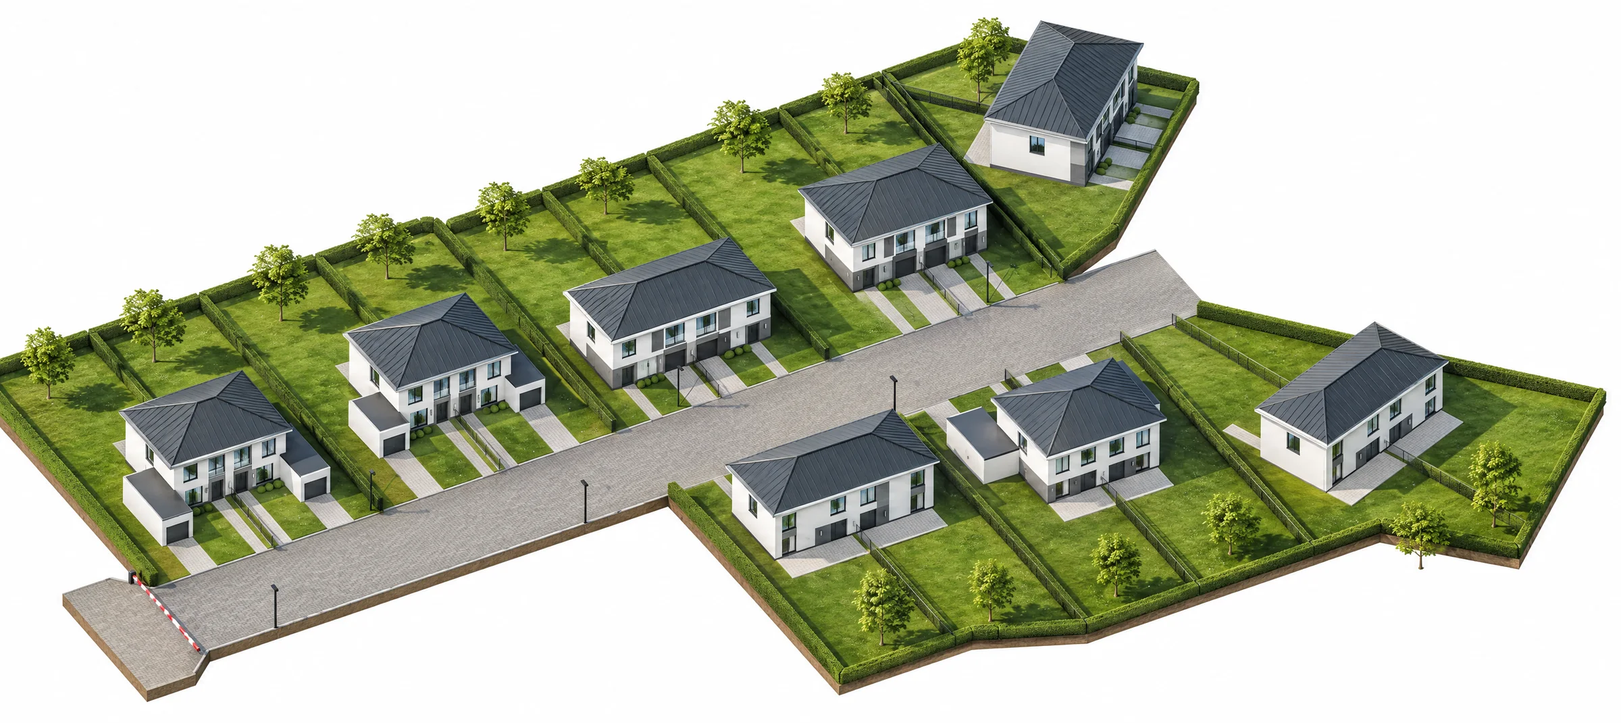
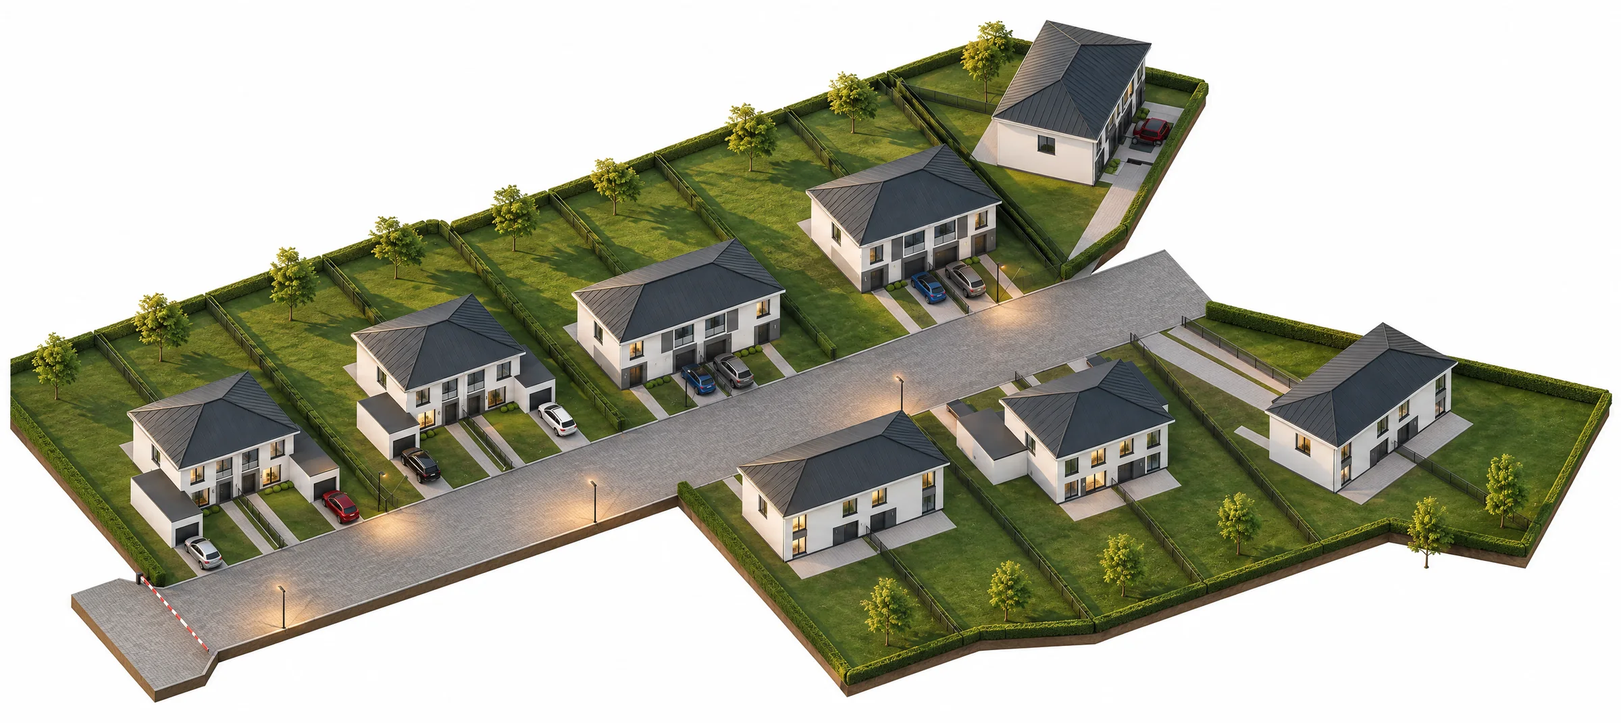
Makieta: auta, świecące latarnie, dojazd do domu 1, widok pionowy na telefon; spacer jako sekcja strony głównej

diff --git a/js/makieta.js b/js/makieta.js
@@ -1,4 +1,5 @@
-// Obrysy połówek bliźniaków na makiecie 3D: kontury z maski ID (Blender, ta sama kamera co render), piksele kadru 3689 x 1645.
-// Model z planu zagospodarowania (makieta-3d/model.py), obrys = to, co faktycznie widać na renderze, z uwzględnieniem zasłonięć.
-window.MAKIETA_WYM = [3689, 1645];
-window.MAKIETA = {"1A1": {"d": "M2305.5 154.5 2243.5 265.5 2243.5 271.5 2254.5 273.5 2258.5 275.5 2258.5 377.5 2412.5 409.5 2431.5 414.5 2445.5 416.5 2450.5 418.5 2469.5 421.5 2472.5 418.5 2477.5 408.5 2480.5 407.5 2488.5 392.5 2490.5 382.5 2502.5 360.5 2508.5 359.5 2510.5 357.5 2528.5 325.5 2529.5 321.5 2529.5 270.5 2526.5 269.5 2526.5 229.5 2538.5 208.5 2538.5 203.5 2422.5 136.5Z", "pin": [2393.0, 213.2]}, "1A1'": {"d": "M2367.5 41.5 2305.5 153.5 2422.5 135.5 2538.5 202.5 2539.5 208.5 2527.5 229.5 2527.5 269.5 2530.5 270.5 2530.5 311.5 2534.5 312.5 2554.5 277.5 2555.5 264.5 2563.5 249.5 2566.5 248.5 2569.5 242.5 2571.5 242.5 2578.5 229.5 2578.5 225.5 2584.5 215.5 2585.5 210.5 2584.5 203.5 2584.5 124.5 2600.5 96.5 2600.5 91.5Z", "pin": [2477.1, 114.4]}, "2A": {"d": "M1978.5 370.5 1817.5 425.5 1817.5 430.5 1833.5 448.5 1833.5 543.5 1941.5 665.5 1949.5 664.5 1964.5 658.5 1969.5 659.5 1987.5 653.5 1991.5 649.5 1998.5 647.5 2002.5 644.5 2026.5 636.5 2030.5 636.5 2031.5 638.5 2040.5 636.5 2043.5 634.5 2088.5 619.5 2088.5 616.5 2090.5 614.5 2092.5 614.5 2092.5 512.5 2098.5 510.5 2098.5 505.5 2038.5 394.5Z", "pin": [1964.5, 449.9]}, "2A'": {"d": "M2139.5 315.5 1979.5 370.5 2039.5 394.5 2099.5 505.5 2099.5 510.5 2093.5 512.5 2093.5 613.5 2100.5 612.5 2103.5 614.5 2131.5 605.5 2134.5 603.5 2158.5 595.5 2158.5 592.5 2161.5 590.5 2184.5 582.5 2189.5 582.5 2193.5 580.5 2201.5 580.5 2219.5 574.5 2221.5 571.5 2236.5 566.5 2243.5 562.5 2243.5 461.5 2259.5 455.5 2259.5 450.5Z", "pin": [2143.2, 396.0]}, "3C": {"d": "M1469.5 601.5 1433.5 612.5 1430.5 614.5 1278.5 665.5 1278.5 670.5 1295.5 689.5 1295.5 776.5 1294.5 783.5 1388.5 889.5 1395.5 888.5 1408.5 883.5 1415.5 883.5 1433.5 877.5 1437.5 873.5 1445.5 871.5 1446.5 869.5 1498.5 852.5 1501.5 850.5 1508.5 852.5 1548.5 839.5 1563.5 833.5 1563.5 830.5 1567.5 828.5 1567.5 727.5 1573.5 724.5 1573.5 719.5 1521.5 623.5 1519.5 621.5Z", "pin": [1432.5, 679.0]}, "3C'": {"d": "M1657.5 536.5 1469.5 600.5 1519.5 620.5 1522.5 623.5 1574.5 719.5 1574.5 724.5 1568.5 727.5 1568.5 828.5 1572.5 826.5 1575.5 826.5 1578.5 828.5 1592.5 824.5 1595.5 822.5 1630.5 811.5 1633.5 809.5 1634.5 805.5 1683.5 789.5 1686.5 787.5 1691.5 787.5 1698.5 784.5 1703.5 785.5 1724.5 778.5 1725.5 775.5 1747.5 767.5 1746.5 759.5 1746.5 666.5 1748.5 664.5 1762.5 660.5 1763.5 655.5Z", "pin": [1637.1, 615.1]}, "4B": {"d": "M914.5 710.5 775.5 757.5 775.5 762.5 792.5 781.5 792.5 868.5 791.5 875.5 817.5 904.5 817.5 907.5 815.5 909.5 794.5 916.5 794.5 974.5 857.5 1045.5 870.5 1042.5 926.5 1022.5 926.5 989.5 980.5 970.5 984.5 970.5 988.5 968.5 993.5 969.5 1011.5 963.5 1015.5 959.5 1027.5 954.5 1028.5 951.5 1028.5 852.5 1034.5 850.5 1034.5 846.5 974.5 735.5Z", "pin": [902.1, 800.7]}, "4B'": {"d": "M915.5 710.5 969.5 731.5 975.5 735.5 1035.5 846.5 1035.5 850.5 1029.5 852.5 1029.5 947.5 1028.5 954.5 1035.5 951.5 1041.5 950.5 1046.5 951.5 1067.5 944.5 1069.5 941.5 1073.5 940.5 1076.5 937.5 1149.5 913.5 1172.5 938.5 1220.5 923.5 1237.5 916.5 1237.5 858.5 1175.5 788.5 1166.5 790.5 1157.5 781.5 1053.5 663.5Z", "pin": [1092.7, 741.8]}, "5B": {"d": "M403.5 891.5 267.5 937.5 267.5 943.5 283.5 961.5 283.5 1056.5 304.5 1079.5 304.5 1081.5 301.5 1083.5 280.5 1090.5 280.5 1148.5 370.5 1249.5 381.5 1247.5 438.5 1227.5 438.5 1169.5 436.5 1166.5 437.5 1162.5 469.5 1151.5 483.5 1150.5 502.5 1143.5 504.5 1140.5 510.5 1137.5 517.5 1135.5 517.5 1034.5 523.5 1031.5 523.5 1027.5 464.5 917.5 458.5 913.5Z", "pin": [392.2, 987.9]}, "5B'": {"d": "M404.5 891.5 458.5 912.5 465.5 917.5 524.5 1027.5 524.5 1031.5 518.5 1034.5 518.5 1135.5 525.5 1132.5 539.5 1131.5 556.5 1125.5 558.5 1122.5 566.5 1118.5 638.5 1094.5 684.5 1145.5 688.5 1143.5 699.5 1141.5 746.5 1124.5 746.5 1065.5 657.5 965.5 648.5 967.5 539.5 845.5Z", "pin": [590.4, 926.3]}, "6C": {"d": "M2032.5 932.5 1842.5 997.5 1889.5 1015.5 1895.5 1019.5 1947.5 1115.5 1947.5 1119.5 1941.5 1122.5 1941.5 1218.5 1940.5 1219.5 1941.5 1223.5 1952.5 1219.5 1956.5 1220.5 2012.5 1201.5 2014.5 1198.5 2121.5 1162.5 2120.5 1155.5 2120.5 1061.5 2122.5 1059.5 2136.5 1055.5 2137.5 1050.5Z", "pin": [2010.5, 1010.8]}, "6C'": {"d": "M1841.5 997.5 1650.5 1062.5 1650.5 1067.5 1667.5 1086.5 1667.5 1172.5 1666.5 1180.5 1760.5 1285.5 1864.5 1249.5 1871.5 1249.5 1924.5 1231.5 1927.5 1228.5 1940.5 1223.5 1940.5 1122.5 1946.5 1119.5 1946.5 1115.5 1894.5 1019.5Z", "pin": [1804.7, 1075.0]}, "7B": {"d": "M2526.5 815.5 2523.5 815.5 2391.5 860.5 2391.5 861.5 2450.5 884.5 2453.5 887.5 2514.5 1000.5 2514.5 1005.5 2508.5 1008.5 2508.5 1102.5 2509.5 1109.5 2519.5 1105.5 2523.5 1106.5 2579.5 1087.5 2581.5 1084.5 2634.5 1066.5 2633.5 1059.5 2633.5 977.5 2637.5 975.5 2637.5 964.5 2650.5 959.5 2650.5 954.5 2637.5 940.5 2637.5 916.5 2551.5 819.5 2534.5 824.5Z", "pin": [2547.6, 894.6]}, "7B'": {"d": "M2156.5 953.5 2156.5 1012.5 2238.5 1104.5 2312.5 1079.5 2317.5 1079.5 2382.5 1152.5 2434.5 1134.5 2438.5 1135.5 2494.5 1116.5 2496.5 1113.5 2508.5 1109.5 2507.5 1102.5 2507.5 1008.5 2513.5 1005.5 2513.5 1000.5 2454.5 890.5 2450.5 885.5 2388.5 861.5 2253.5 907.5 2253.5 912.5 2270.5 931.5 2270.5 963.5 2267.5 964.5 2259.5 956.5 2234.5 927.5 2231.5 927.5Z", "pin": [2351.8, 939.8]}, "8C": {"d": "M3129.5 731.5 2990.5 832.5 3072.5 837.5 3157.5 920.5 3157.5 925.5 3148.5 932.5 3148.5 1030.5 3154.5 1025.5 3162.5 1022.5 3200.5 994.5 3202.5 990.5 3279.5 934.5 3278.5 927.5 3278.5 836.5 3295.5 824.5 3295.5 819.5Z", "pin": [3172.8, 812.0]}, "8C'": {"d": "M2989.5 833.5 2850.5 934.5 2850.5 939.5 2868.5 948.5 2868.5 1041.5 2867.5 1048.5 3016.5 1126.5 3091.5 1071.5 3099.5 1068.5 3136.5 1041.5 3139.5 1036.5 3147.5 1031.5 3147.5 932.5 3156.5 925.5 3156.5 920.5 3072.5 838.5Z", "pin": [3008.6, 912.4]}};
+// Obrysy połówek bliźniaków na makiecie 3D: kontury z maski ID (Blender, ta sama kamera co render).
+// Generuje makieta-3d/kadr.py + svg_js.py. Dwa widoki: poziomy (komputer) i pionowy (telefon).
+window.MAKIETA_WYM = [3688, 1644];
+window.MAKIETA = {"1A1": {"d": "M2489.0 420.5 2277.5 376.0 2277.5 274.0 2263.0 270.5 2262.5 264.0 2325.0 152.5 2442.0 134.5 2558.5 202.0 2558.5 207.0 2546.5 228.0 2546.5 268.0 2549.5 269.0 2548.5 324.0 2530.5 356.0 2522.5 359.0 2510.5 381.0 2504.5 399.0Z", "pin": [2415, 205]}, "1A1'": {"d": "M2554.0 311.5 2549.5 310.0 2546.5 228.0 2558.5 207.0 2558.0 201.5 2442.0 134.5 2324.5 152.0 2387.0 39.5 2620.5 90.0 2620.5 95.0 2604.5 123.0 2604.5 214.0 2591.5 241.0 2583.5 248.0 2578.5 257.0 2575.5 263.0 2574.5 276.0Z", "pin": [2474, 106]}, "2A": {"d": "M1963.0 664.5 1958.5 662.0 1852.5 542.0 1852.5 447.0 1836.5 429.0 1836.5 424.0 1998.0 368.5 2058.5 393.0 2118.5 504.0 2118.5 509.0 2112.5 511.0 2112.5 613.0 2104.0 620.5 2057.0 636.5 2051.0 637.5 2049.0 634.5 2022.0 643.5 2007.0 652.5Z", "pin": [1973, 442]}, "2A'": {"d": "M2123.0 613.5 2119.0 610.5 2112.5 612.0 2112.5 511.0 2118.5 509.0 2117.5 502.0 2058.5 393.0 1998.5 369.0 2159.0 313.5 2278.5 447.0 2279.5 454.0 2263.5 460.0 2263.5 561.0 2241.0 570.5 2239.0 573.5 2198.0 583.5 2179.0 590.5 2178.5 594.0 2174.0 596.5Z", "pin": [2140, 387]}, "3C": {"d": "M1409.0 888.5 1313.5 782.0 1314.5 688.0 1297.5 669.0 1297.5 664.0 1489.0 599.5 1541.5 622.0 1593.5 718.0 1593.5 723.0 1587.5 726.0 1587.5 827.0 1583.5 829.0 1583.0 832.5 1568.0 838.5 1528.0 851.5 1524.0 848.5 1466.0 868.5 1453.0 876.5Z", "pin": [1450, 673]}, "3C'": {"d": "M1598.0 827.5 1595.0 825.5 1587.5 827.0 1587.5 726.0 1593.5 723.0 1593.5 718.0 1541.5 622.0 1488.5 599.0 1677.0 534.5 1783.5 654.0 1782.0 659.5 1766.5 665.0 1767.5 766.0 1745.0 774.5 1744.0 777.5 1723.0 784.5 1721.0 782.5 1709.0 785.5 1659.0 802.5 1654.0 804.5 1650.0 810.5Z", "pin": [1643, 609]}, "4B": {"d": "M879.0 1044.5 873.5 1041.0 813.5 973.0 813.5 915.0 837.5 905.0 810.5 874.0 811.5 780.0 794.5 761.0 794.5 756.0 934.0 708.5 994.5 734.0 1054.5 845.0 1054.5 849.0 1048.5 851.0 1048.5 950.0 1047.0 953.5 1031.0 962.5 1013.0 968.5 1002.0 968.5 947.0 987.5 946.0 1021.5Z", "pin": [920, 790]}, "4B'": {"d": "M1048.0 953.5 1048.5 851.0 1054.0 849.5 1054.5 845.0 994.5 734.0 934.5 709.0 1073.0 661.5 1185.5 789.0 1195.0 786.5 1257.5 857.0 1257.5 915.0 1192.0 937.5 1167.0 912.5 1096.0 936.5 1087.0 943.5Z", "pin": [1062, 732]}, "5B": {"d": "M393.0 1248.5 390.0 1248.5 383.5 1242.0 299.5 1147.0 299.5 1089.0 324.5 1079.0 302.5 1055.0 302.5 960.0 286.5 942.0 286.5 936.0 423.0 889.5 484.5 916.0 543.5 1026.0 543.5 1030.0 537.5 1033.0 537.5 1134.0 512.0 1146.5 503.0 1149.5 492.0 1149.5 455.0 1162.5 458.5 1168.0 458.5 1226.0Z", "pin": [411, 977]}, "5B'": {"d": "M704.0 1144.5 658.0 1093.5 586.0 1117.5 576.0 1124.5 559.0 1130.5 555.0 1131.5 554.0 1129.5 538.0 1134.5 537.5 1033.0 543.5 1030.0 543.5 1026.0 484.5 916.0 423.5 890.0 559.0 843.5 661.5 959.0 668.0 965.5 677.5 964.0 766.5 1064.0 766.5 1123.0Z", "pin": [552, 916]}, "6C": {"d": "M1962.0 1222.5 1959.5 1221.0 1960.5 1121.0 1966.5 1118.0 1966.5 1114.0 1914.5 1018.0 1861.5 996.0 2052.0 930.5 2157.5 1049.0 2156.0 1054.5 2140.5 1060.0 2141.5 1161.0 2034.0 1197.5 2032.0 1200.5 2015.0 1206.5Z", "pin": [2017, 1005]}, "6C'": {"d": "M1780.0 1284.5 1685.5 1179.0 1686.5 1085.0 1669.5 1066.0 1669.5 1061.0 1861.0 995.5 1914.5 1018.0 1966.5 1114.0 1966.5 1118.0 1960.5 1121.0 1960.5 1222.0 1924.0 1237.5 1891.0 1248.5 1887.0 1247.5Z", "pin": [1822, 1069]}, "7B": {"d": "M2529.0 1108.5 2527.5 1007.0 2533.5 1004.0 2533.5 999.0 2472.5 886.0 2410.5 859.0 2546.0 813.5 2554.0 822.5 2571.0 817.5 2651.5 908.0 2657.5 915.0 2657.5 939.0 2670.5 953.0 2670.5 958.0 2657.5 963.0 2657.5 974.0 2653.5 976.0 2654.5 1065.0 2601.0 1083.5 2599.0 1086.5 2588.0 1090.5Z", "pin": [2546, 883]}, "7B'": {"d": "M2403.0 1151.5 2336.0 1077.5 2258.0 1103.5 2175.5 1011.0 2175.5 952.0 2254.0 925.5 2289.0 965.5 2289.5 930.0 2272.5 911.0 2273.0 905.5 2408.0 859.5 2470.0 883.5 2533.5 999.0 2533.5 1004.0 2527.5 1007.0 2528.5 1108.0 2494.0 1122.5 2458.0 1134.5 2454.0 1133.5Z", "pin": [2366, 937]}, "8C": {"d": "M3168.0 1029.5 3167.5 931.0 3176.5 924.0 3176.5 919.0 3092.0 836.5 3009.5 831.0 3149.0 729.5 3315.5 818.0 3315.5 823.0 3298.5 835.0 3299.5 933.0 3222.0 989.5 3215.0 997.5Z", "pin": [3171, 808]}, "8C'": {"d": "M3036.0 1125.5 2886.5 1047.0 2887.5 947.0 2869.5 938.0 2870.0 932.5 3009.0 831.5 3092.0 836.5 3176.5 919.0 3176.5 924.0 3167.5 931.0 3167.5 1030.0 3119.0 1067.5 3111.0 1070.5Z", "pin": [3033, 905]}};
+window.MAKIETA_PION = {"wym": [1986, 2274], "domy": {"1A1": {"d": "M561.0 458.5 481.5 362.0 482.5 325.0 474.5 314.0 551.0 245.5 626.0 219.5 709.5 322.0 708.0 325.5 696.5 333.0 697.5 373.0Z", "pin": [594, 283]}, "1A1'": {"d": "M481.0 361.5 404.5 268.0 403.5 228.0 390.5 211.0 542.0 116.5 625.5 219.0 551.0 245.5 483.0 305.5 474.5 314.0 482.5 325.0Z", "pin": [516, 185]}, "2A": {"d": "M706.0 804.5 538.5 786.0 538.5 744.0 529.0 742.5 528.5 734.0 545.0 619.5 639.0 609.5 730.5 640.0 720.5 736.0 716.5 742.0 711.5 785.0Z", "pin": [630, 655]}, "2A'": {"d": "M726.0 687.5 725.5 677.0 730.5 647.0 729.0 638.5 639.0 609.5 544.5 619.0 561.0 500.5 747.5 520.0Z", "pin": [645, 544]}, "3C": {"d": "M684.0 1236.5 539.5 1221.0 539.5 1178.0 530.0 1176.5 529.5 1169.0 549.0 1033.5 633.0 1024.5 712.5 1051.0 706.5 1090.0 706.5 1114.0 702.5 1143.0 697.5 1156.0 690.5 1215.0Z", "pin": [623, 1073]}, "3C'": {"d": "M707.0 1098.5 712.5 1053.0 710.0 1049.5 633.0 1024.5 548.5 1033.0 568.0 892.5 731.5 910.0 713.5 1040.0 713.5 1063.0Z", "pin": [641, 940]}, "4B": {"d": "M606.0 1615.5 510.0 1605.5 508.5 1572.0 511.5 1557.0 509.0 1555.5 409.5 1545.0 410.5 1502.0 401.0 1501.5 399.5 1498.0 414.0 1395.5 507.0 1384.5 600.5 1415.0 586.5 1520.0 583.5 1522.0 582.5 1533.0 613.5 1537.0 613.5 1575.0Z", "pin": [499, 1438]}, "4B'": {"d": "M600.0 1414.5 507.0 1384.5 415.0 1395.5 428.5 1293.0 541.0 1304.5 548.0 1304.5 549.0 1296.5 559.0 1296.5 645.0 1305.5 645.5 1342.0 639.5 1379.0 638.0 1381.5 630.0 1381.5 606.0 1378.5Z", "pin": [531, 1331]}, "5B": {"d": "M595.0 1999.5 455.0 1985.5 454.5 1957.0 457.0 1936.5 366.0 1927.5 365.5 1884.0 355.5 1882.0 355.5 1873.0 368.5 1779.0 464.0 1768.5 554.0 1797.5 555.5 1801.0 545.5 1876.0 537.5 1915.0 601.5 1923.0 601.5 1962.0Z", "pin": [454, 1822]}, "5B'": {"d": "M555.0 1798.5 464.0 1768.5 370.0 1778.5 382.5 1678.0 494.0 1689.5 496.5 1681.0 503.0 1680.5 635.0 1694.5 635.5 1730.0 629.5 1767.0 621.0 1768.5 561.0 1761.5Z", "pin": [502, 1714]}, "6C": {"d": "M1264.0 1095.5 1183.0 1069.5 1101.5 1078.0 1122.0 937.5 1283.5 955.0Z", "pin": [1195, 974]}, "6C'": {"d": "M1237.0 1282.5 1092.5 1267.0 1092.5 1225.0 1083.0 1223.5 1082.5 1216.0 1102.0 1078.5 1183.0 1069.5 1264.5 1096.0 1245.5 1238.0 1242.5 1240.0Z", "pin": [1176, 1119]}, "7B": {"d": "M1400.0 723.5 1305.0 692.5 1208.0 703.5 1210.5 686.0 1209.0 678.5 1171.5 675.0 1171.5 647.0 1180.5 584.0 1311.0 596.5 1315.5 598.0 1316.0 612.5 1414.0 622.5Z", "pin": [1273, 620]}, "7B'": {"d": "M1268.0 916.5 1140.5 903.0 1140.5 872.0 1148.5 819.0 1203.5 824.0 1203.5 809.0 1194.0 807.5 1193.5 803.0 1207.5 704.0 1305.0 692.5 1400.0 723.5 1387.5 821.0 1383.5 831.0 1378.5 870.0 1277.0 859.5Z", "pin": [1296, 744]}, "8C": {"d": "M1448.0 414.5 1445.5 414.0 1442.5 407.0 1434.5 379.0 1433.5 357.0 1417.5 312.0 1413.5 290.0 1414.5 272.0 1402.5 231.0 1562.0 195.5 1601.5 332.0 1522.0 331.5 1443.0 366.5 1442.5 372.0 1450.5 398.0Z", "pin": [1499, 250]}, "8C'": {"d": "M1488.0 548.5 1476.5 518.0 1474.5 501.0 1465.5 469.0 1464.0 465.5 1458.5 463.0 1448.5 428.0 1448.5 401.0 1450.5 398.0 1442.5 367.0 1522.0 331.5 1601.0 332.5 1640.5 466.0 1640.0 471.5 1629.5 474.0 1630.5 517.0Z", "pin": [1536, 381]}}};

diff --git a/index.html b/index.html
@@ -25,7 +25,7 @@
       <a href="#lokalizacja">Lokalizacja</a>
       <a href="#budowa">Budowa</a>
       <a href="standard.html">Standard</a>
-      <a href="spacer.html">Spacer 360°</a>
+      <a href="#spacer-360">Spacer 360°</a>
       <a href="#kontakt">Kontakt</a>
       <div class="menu__dol">
         <a class="przycisk" href="tel:+48604995123">Zadzwoń: 604 995 123</a>
@@ -116,11 +116,13 @@
       </div>
       <div class="nawigator__rys" id="nawigator-rys">
         <div class="nawigator__plotno">
-          <img src="img/makieta-2400.webp" srcset="img/makieta-1400.webp 1400w, img/makieta-2400.webp 2400w" sizes="(max-width: 600px) 980px, (max-width: 1440px) 100vw, 1320px" width="2400" height="1070" alt="Makieta 3D pierwszego etapu osiedla według planu zagospodarowania: droga ze szlabanem, 5 bliźniaków po jednej stronie i 3 po drugiej" loading="lazy">
+          <picture>
+            <source media="(max-width: 960px)" srcset="img/makieta-pion-1200.webp" width="1200" height="1374">
+            <img src="img/makieta-2400.webp" srcset="img/makieta-1400.webp 1400w, img/makieta-2400.webp 2400w" sizes="(max-width: 1440px) 100vw, 1320px" width="2400" height="1070" alt="Makieta 3D pierwszego etapu osiedla według planu zagospodarowania: droga ze szlabanem, 5 bliźniaków po jednej stronie i 3 po drugiej" loading="lazy">
+          </picture>
           <svg viewBox="0 0 3689 1645" id="nav-svg" role="group" aria-label="Domy na makiecie, wybierz dom"></svg>
         </div>
       </div>
-      <p class="nawigator__podpowiedz">Przesuń makietę palcem w bok, żeby zobaczyć całe osiedle.</p>
       <div class="nawigator__dol">
         <p class="legenda"><span><i class="kropka"></i><span>Wolne (<span data-wolne>14</span>)</span></span><span><i class="kropka kropka--sprzedany"></i><span>Sprzedane (<span data-sprzedane>2</span>)</span></span></p>
         <p class="przypis">Makieta według planu zagospodarowania.</p>
@@ -163,6 +165,42 @@
         <p class="przypis">Rysunki z projektu architektonicznego. Kliknij rysunek, żeby go powiększyć.</p>
       </div>
     </div>
+  </div>
+</section>
+
+<section class="sekcja sekcja--granat wejdz" id="spacer-360" aria-labelledby="h-spacer">
+  <div class="w">
+    <div class="lok__gora">
+      <div>
+        <p class="etykieta">Wirtualny spacer</p>
+        <h2 id="h-spacer">Wejdź do środka.</h2>
+      </div>
+      <p class="lok__opis">Dom typu B: pokój dzienny, jadalnia z kuchnią, hol, ogród i wejście. Przeciągnij obraz, żeby się rozejrzeć, i wybierz punkt, żeby przejść dalej.</p>
+    </div>
+    <!-- SPACER -->
+    <div class="spacer" id="spacer">
+      <canvas id="spacer-plotno" tabindex="0" role="img" aria-label="Panorama 360° domu typu B. Strzałki na klawiaturze obracają widok, plus i minus przybliżają."></canvas>
+      <div id="spacer-znaczniki"></div>
+      <div class="spacer__narzedzia">
+        <button type="button" data-zoom="-10" aria-label="Przybliż">+</button>
+        <button type="button" data-zoom="10" aria-label="Oddal">&minus;</button>
+        <button type="button" data-plan aria-pressed="true">Plan</button>
+        <button type="button" data-pelny>Pełny ekran</button>
+      </div>
+      <div class="spacer__plan" id="spacer-plan" aria-label="Plan parteru z punktami spaceru">
+        <img src="img/spacer/plan-b-parter.webp" width="720" height="720" alt="">
+        <span class="spacer__stozek" id="spacer-stozek"></span>
+      </div>
+      <p class="spacer__podpowiedz">Przeciągnij, żeby się rozejrzeć</p>
+    </div>
+    <div class="spacer__pasek">
+      <div class="spacer__lista" role="group" aria-label="Punkt spaceru" id="spacer-punkty"></div>
+      <p id="spacer-info" aria-live="polite"></p>
+    </div>
+    <noscript><div class="wizualizacje"><figure><img src="img/spacer/b-parter-salon-2048.jpg" width="2048" height="1024" alt="Panorama: pokój dzienny, dom typu B" loading="lazy"><figcaption>Pokój dzienny</figcaption></figure><figure><img src="img/spacer/b-parter-jadalnia-kuchnia-2048.jpg" width="2048" height="1024" alt="Panorama: jadalnia i kuchnia, dom typu B" loading="lazy"><figcaption>Jadalnia i kuchnia</figcaption></figure><figure><img src="img/spacer/b-parter-hol-2048.jpg" width="2048" height="1024" alt="Panorama: hol przy schodach, dom typu B" loading="lazy"><figcaption>Hol przy schodach</figcaption></figure><figure><img src="img/spacer/b-ogrod-2048.jpg" width="2048" height="1024" alt="Panorama: ogród, dom typu B" loading="lazy"><figcaption>Ogród</figcaption></figure><figure><img src="img/spacer/b-front-2048.jpg" width="2048" height="1024" alt="Panorama: przed domem, dom typu B" loading="lazy"><figcaption>Przed domem</figcaption></figure></div></noscript>
+    <div class="wizualizacje spacer__zapas" hidden><figure><img src="img/spacer/b-parter-salon-2048.jpg" width="2048" height="1024" alt="Panorama: pokój dzienny, dom typu B" loading="lazy"><figcaption>Pokój dzienny</figcaption></figure><figure><img src="img/spacer/b-parter-jadalnia-kuchnia-2048.jpg" width="2048" height="1024" alt="Panorama: jadalnia i kuchnia, dom typu B" loading="lazy"><figcaption>Jadalnia i kuchnia</figcaption></figure><figure><img src="img/spacer/b-parter-hol-2048.jpg" width="2048" height="1024" alt="Panorama: hol przy schodach, dom typu B" loading="lazy"><figcaption>Hol przy schodach</figcaption></figure><figure><img src="img/spacer/b-ogrod-2048.jpg" width="2048" height="1024" alt="Panorama: ogród, dom typu B" loading="lazy"><figcaption>Ogród</figcaption></figure><figure><img src="img/spacer/b-front-2048.jpg" width="2048" height="1024" alt="Panorama: przed domem, dom typu B" loading="lazy"><figcaption>Przed domem</figcaption></figure></div>
+    <!-- /SPACER -->
+    <p class="przypis">Układ ścian, okna, schody i ustawienie mebli według rzutu parteru typu B. Wystrój, zieleń, osoby i pies to przykładowa aranżacja. <a href="spacer.html">Spacer na osobnej stronie</a></p>
   </div>
 </section>
 
@@ -309,7 +347,7 @@
         <a href="#typy">Typy domów</a>
         <a href="#lokalizacja">Lokalizacja</a>
         <a href="#budowa">Budowa</a>
-        <a href="spacer.html">Spacer 360°</a>
+        <a href="#spacer-360">Spacer 360°</a>
         <a href="dziennik-budowy.html">Dziennik budowy</a>
         <a href="standard.html">Standard</a>
         <a href="#pytania">Pytania</a>
@@ -338,6 +376,8 @@
   </div>
 </dialog>
 
+<script src="js/spacer-dane.js" defer></script>
+<script src="js/spacer.js" defer></script>
 <script src="js/dane.js"></script>
 <script src="js/makieta.js"></script>
 <script src="js/app.js"></script>

diff --git a/js/app.js b/js/app.js
@@ -66,9 +66,16 @@
   var NS = 'http://www.w3.org/2000/svg';
   var svg = document.getElementById('nav-svg'), lista = document.getElementById('lista'), karta = document.getElementById('karta');
   function s(tag, attrs) { var e = document.createElementNS(NS, tag); for (var k in attrs) e.setAttribute(k, attrs[k]); return e; }
-  var piny = s('g', { 'class': 'piny' });
-  DOMY.forEach(function (d) {
-    var m = MK[d.id];
+  // Makieta ma dwa widoki: poziomy na komputer i pionowy na telefon (cała mieści się na ekranie, bez przewijania w bok).
+  var mqMak = window.matchMedia('(max-width: 960px)'), wybrany = null;
+  function rysujMakiete() {
+    var pion = mqMak.matches && window.MAKIETA_PION, dane = pion ? window.MAKIETA_PION.domy : MK, wym = pion ? window.MAKIETA_PION.wym : window.MAKIETA_WYM;
+    var szer = svg.getBoundingClientRect().width || 360;      // tabliczka ma mieć na ekranie co najmniej 17 px wysokości
+    var skala = Math.min(2.2, Math.max(1, 17 / (58 * szer / wym[0])));
+    svg.textContent = ''; svg.setAttribute('viewBox', '0 0 ' + wym[0] + ' ' + wym[1]);
+    var piny = s('g', { 'class': 'piny' });
+    DOMY.forEach(function (d) {
+    var m = dane[d.id];
     var g = s('g', { 'class': 'dom', 'data-id': d.id, 'data-status': d.status, tabindex: '0', role: 'button', 'aria-pressed': 'false',
       'aria-label': 'Dom ' + d.id + ', typ ' + d.typ + ', ' + ST[d.status].toLowerCase() });
     g.appendChild(s('path', { d: m.d, 'class': 'dom__obrys' }));
@@ -77,12 +84,15 @@
     svg.appendChild(g);
     // tabliczka: pole, wcięta biała ramka, numer
     var w = 38 + d.id.length * 24, h = 58;
-    var p = s('g', { 'class': 'pin', 'data-id': d.id, 'data-status': d.status, transform: 'translate(' + m.pin[0] + ' ' + m.pin[1] + ')', 'aria-hidden': 'true' });
+    var p = s('g', { 'class': 'pin', 'data-id': d.id, 'data-status': d.status, transform: 'translate(' + m.pin[0] + ' ' + m.pin[1] + ') scale(' + skala + ')', 'aria-hidden': 'true' });
     p.appendChild(s('rect', { x: -w / 2, y: -h / 2, width: w, height: h, rx: h / 2, 'class': 'pin__pole' }));
     p.appendChild(s('rect', { x: -w / 2 + 6, y: -h / 2 + 6, width: w - 12, height: h - 12, rx: 6, 'class': 'pin__ramka' }));
     var tx = s('text', { y: 12.5, 'class': 'pin__nr' }); tx.textContent = d.id; p.appendChild(tx);
     piny.appendChild(p);
-
+    });
+    svg.appendChild(piny);
+  }
+  DOMY.forEach(function (d) {
     var tr = el('tr'); tr.dataset.id = d.id; tr.dataset.status = d.status;
     var td = el('td'), wb = el('button', 'wybierz'); wb.type = 'button';
     wb.setAttribute('aria-label', 'Pokaż dom ' + d.id); wb.appendChild(nr(d));
@@ -94,10 +104,7 @@
       '</td><td class="status-k">' + ST[d.status] + '</td>');
     lista.appendChild(tr);
   });
-  svg.appendChild(piny);
-  // na telefonie makieta przewija się w bok; startujemy od środka
-  var nr_ = document.getElementById('nawigator-rys');
-  if (nr_ && nr_.scrollWidth > nr_.clientWidth) nr_.scrollLeft = (nr_.scrollWidth - nr_.clientWidth) / 2;
+  rysujMakiete();
 
   // Filtry typu i statusu
   var filtr = { typ: '', status: '' };
@@ -115,7 +122,7 @@
   window.filtrujTyp = function (k) { filtr.typ = k; filtr.status = ''; zastosuj(); };
 
   function wybierz(id) {
-    var d = znajdz(id), t = T[d.typ];
+    var d = znajdz(id), t = T[d.typ]; wybrany = id;
     svg.querySelectorAll('.dom').forEach(function (g) { g.setAttribute('aria-pressed', g.getAttribute('data-id') === id); });
     svg.querySelectorAll('.pin').forEach(function (p) { p.classList.toggle('akt', p.getAttribute('data-id') === id); });
     lista.querySelectorAll('tr').forEach(function (r) { if (r.dataset.id === id) r.setAttribute('aria-current', 'true'); else r.removeAttribute('aria-current'); });
@@ -144,6 +151,7 @@
     karta.appendChild(a);
   }
   wybierz(DOMY.filter(function (d) { return d.status === 'wolny'; })[0].id);
+  mqMak.addEventListener('change', function () { rysujMakiete(); zastosuj(); if (wybrany) wybierz(wybrany); });
 
   // Typy domów: zakładki, przełącznik parter / piętro, tabela pomieszczeń
   var zak = document.getElementById('zakladki'), opis = document.getElementById('typ-opis'), rzut = document.getElementById('rzut');

diff --git a/spacer.html b/spacer.html
@@ -25,7 +25,7 @@
       <a href="index.html#lokalizacja">Lokalizacja</a>
       <a href="index.html#budowa">Budowa</a>
       <a href="standard.html">Standard</a>
-      <a href="spacer.html" aria-current="page">Spacer 360°</a>
+      <a href="index.html#spacer-360">Spacer 360°</a>
       <a href="index.html#kontakt">Kontakt</a>
       <div class="menu__dol">
         <a class="przycisk" href="tel:+48604995123">Zadzwoń: 604 995 123</a>
@@ -83,7 +83,6 @@
     <p class="dalej"><a href="typ-b.html">Wszystkie rysunki i domy typu B <span aria-hidden="true">&rarr;</span></a></p>
   </div>
 </section>
-<script>window.SPACER = {"punkty": [{"nazwa": "Pokój dzienny", "x": 235, "y": 70, "start": 150, "do": [1, 3], "opis": "Pokój dzienny przy oknie tarasowym. Stąd wyjście na taras i do ogrodu.", "fakty": [{"x": 440, "y": 300, "z": 0, "t": "Ogrzewanie podłogowe: kabel grzewczy zatopiony w posadzce."}, {"x": 430, "y": 505, "z": 70, "t": "Schody na piętro: 16 stopni. Na piętrze 3 sypialnie i łazienka."}], "u": 0.6178, "v": 0.1227, "obrot": 0, "obraz": "img/spacer/b-parter-salon-4096.jpg", "maly": "img/spacer/b-parter-salon-2048.jpg", "duzy": "img/spacer/b-parter-salon-8192.jpg"}, {"nazwa": "Jadalnia i kuchnia", "x": 305, "y": 395, "start": -25, "do": [0, 2, 3], "opis": "Środek parteru: kuchnia z półwyspem (6,89 m²), jadalnia i pokój dzienny ze schodami (28,75 m²).", "fakty": [{"x": 430, "y": -10, "z": 185, "t": "Okno tarasowe 350 × 220 cm, wyjście na taras i do ogrodu."}, {"x": -10, "y": 447, "z": 160, "t": "Okno kuchenne 160 × 130 cm nad blatem."}, {"x": 430, "y": 505, "z": 70, "t": "Schody na piętro: 16 stopni. Na piętrze 3 sypialnie i łazienka."}], "u": 0.6839, "v": 0.4293, "obrot": 0, "obraz": "img/spacer/b-parter-jadalnia-kuchnia-4096.jpg", "maly": "img/spacer/b-parter-jadalnia-kuchnia-2048.jpg", "duzy": "img/spacer/b-parter-jadalnia-kuchnia-8192.jpg"}, {"nazwa": "Hol przy schodach", "x": 288, "y": 600, "start": 0, "do": [1, 4], "opis": "Hol między kuchnią a schodami. Za plecami drzwi do przedsionka, WC i pomieszczenia gospodarczego.", "fakty": [{"x": 430, "y": 505, "z": 70, "t": "Schody na piętro: 16 stopni. Na piętrze 3 sypialnie i łazienka."}], "u": 0.6678, "v": 0.6227, "obrot": 0, "obraz": "img/spacer/b-parter-hol-4096.jpg", "maly": "img/spacer/b-parter-hol-2048.jpg", "duzy": "img/spacer/b-parter-hol-8192.jpg"}, {"nazwa": "Ogród", "x": 300, "y": -970, "start": 180, "do": [0], "opis": "Ogród za domem, widok na taras i okna pokoju dziennego. Działka jest ogrodzona, około 500 m².", "fakty": [{"x": 560, "y": -200, "z": 20, "t": "Taras przy pokoju dziennym, wyjście przez okno 350 × 220 cm."}], "u": 0.6791, "v": 0.04, "obrot": 180, "obraz": "img/spacer/b-ogrod-4096.jpg", "maly": "img/spacer/b-ogrod-2048.jpg", "duzy": "img/spacer/b-ogrod-8192.jpg"}, {"nazwa": "Przed domem", "x": 300, "y": 2200, "start": 0, "do": [2], "opis": "Wejście i podjazd od strony utwardzonej, oświetlonej drogi dojazdowej.", "fakty": [{"x": 20, "y": 1300, "z": 120, "t": "Garaż w bryle domu: 22,13 m² według tabeli pomieszczeń."}], "u": 0.6791, "v": 0.96, "obrot": 0, "obraz": "img/spacer/b-front-4096.jpg", "maly": "img/spacer/b-front-2048.jpg", "duzy": "img/spacer/b-front-8192.jpg"}]};</script>
 
 <section class="pod-koniec" aria-labelledby="h-koniec">
   <div class="w">
@@ -104,7 +103,7 @@
         <a href="index.html#typy">Typy domów</a>
         <a href="index.html#lokalizacja">Lokalizacja</a>
         <a href="index.html#budowa">Budowa</a>
-        <a href="spacer.html">Spacer 360°</a>
+        <a href="index.html#spacer-360">Spacer 360°</a>
         <a href="dziennik-budowy.html">Dziennik budowy</a>
         <a href="standard.html">Standard</a>
         <a href="index.html#pytania">Pytania</a>
@@ -134,6 +133,7 @@
 </dialog>
 
 <script src="js/podstrona.js"></script>
+<script src="js/spacer-dane.js"></script>
 <script src="js/spacer.js"></script>
 </body>
 </html>

diff --git a/js/spacer-dane.js b/js/spacer-dane.js
@@ -1,0 +1,2 @@
+// Dane spaceru: generuje narzedzia/podstrony.py
+window.SPACER = {"punkty": [{"nazwa": "Pokój dzienny", "x": 235, "y": 70, "start": 150, "do": [1, 3], "opis": "Pokój dzienny przy oknie tarasowym. Stąd wyjście na taras i do ogrodu.", "fakty": [{"x": 440, "y": 300, "z": 0, "t": "Ogrzewanie podłogowe: kabel grzewczy zatopiony w posadzce."}, {"x": 430, "y": 505, "z": 70, "t": "Schody na piętro: 16 stopni. Na piętrze 3 sypialnie i łazienka."}], "u": 0.6178, "v": 0.1227, "obrot": 0, "obraz": "img/spacer/b-parter-salon-4096.jpg", "maly": "img/spacer/b-parter-salon-2048.jpg", "duzy": "img/spacer/b-parter-salon-8192.jpg"}, {"nazwa": "Jadalnia i kuchnia", "x": 305, "y": 395, "start": -25, "do": [0, 2, 3], "opis": "Środek parteru: kuchnia z półwyspem (6,89 m²), jadalnia i pokój dzienny ze schodami (28,75 m²).", "fakty": [{"x": 430, "y": -10, "z": 185, "t": "Okno tarasowe 350 × 220 cm, wyjście na taras i do ogrodu."}, {"x": -10, "y": 447, "z": 160, "t": "Okno kuchenne 160 × 130 cm nad blatem."}, {"x": 430, "y": 505, "z": 70, "t": "Schody na piętro: 16 stopni. Na piętrze 3 sypialnie i łazienka."}], "u": 0.6839, "v": 0.4293, "obrot": 0, "obraz": "img/spacer/b-parter-jadalnia-kuchnia-4096.jpg", "maly": "img/spacer/b-parter-jadalnia-kuchnia-2048.jpg", "duzy": "img/spacer/b-parter-jadalnia-kuchnia-8192.jpg"}, {"nazwa": "Hol przy schodach", "x": 288, "y": 600, "start": 0, "do": [1, 4], "opis": "Hol między kuchnią a schodami. Za plecami drzwi do przedsionka, WC i pomieszczenia gospodarczego.", "fakty": [{"x": 430, "y": 505, "z": 70, "t": "Schody na piętro: 16 stopni. Na piętrze 3 sypialnie i łazienka."}], "u": 0.6678, "v": 0.6227, "obrot": 0, "obraz": "img/spacer/b-parter-hol-4096.jpg", "maly": "img/spacer/b-parter-hol-2048.jpg", "duzy": "img/spacer/b-parter-hol-8192.jpg"}, {"nazwa": "Ogród", "x": 300, "y": -970, "start": 180, "do": [0], "opis": "Ogród za domem, widok na taras i okna pokoju dziennego. Działka jest ogrodzona, około 500 m².", "fakty": [{"x": 560, "y": -200, "z": 20, "t": "Taras przy pokoju dziennym, wyjście przez okno 350 × 220 cm."}], "u": 0.6791, "v": 0.04, "obrot": 180, "obraz": "img/spacer/b-ogrod-4096.jpg", "maly": "img/spacer/b-ogrod-2048.jpg", "duzy": "img/spacer/b-ogrod-8192.jpg"}, {"nazwa": "Przed domem", "x": 300, "y": 2200, "start": 0, "do": [2], "opis": "Wejście i podjazd od strony utwardzonej, oświetlonej drogi dojazdowej.", "fakty": [{"x": 20, "y": 1300, "z": 120, "t": "Garaż w bryle domu: 22,13 m² według tabeli pomieszczeń."}], "u": 0.6791, "v": 0.96, "obrot": 0, "obraz": "img/spacer/b-front-4096.jpg", "maly": "img/spacer/b-front-2048.jpg", "duzy": "img/spacer/b-front-8192.jpg"}]};

diff --git a/css/podstrony.css b/css/podstrony.css
@@ -201,3 +201,13 @@
   .spacer__krag { box-shadow: inset 0 0 0 2.5px #fff; }
   .spacer__plan, .spacer__przejscie, .spacer__fakt-tekst { box-shadow: none; }
 }
+
+/* Spacer jako sekcja strony głównej (granat, jak sekcja budowy) */
+.wejdz .spacer { margin-top: clamp(40px, 5vw, 64px); background: var(--atrament-2); }
+.wejdz .spacer__lista button { color: var(--na-ciemnym); }
+.wejdz .spacer__lista button::before { background: rgba(255, 255, 255, .25); }
+.wejdz .spacer__lista button[aria-pressed="true"] { color: #fff; }
+.wejdz .spacer__lista button[aria-pressed="true"]::before { background: #fff; box-shadow: 0 0 0 4px rgba(255, 255, 255, .22); }
+.wejdz .spacer__pasek p, .wejdz .lok__opis { color: var(--na-ciemnym); }
+.wejdz .przypis a { color: #fff; font-weight: 600; text-underline-offset: 4px; }
+@media (max-width: 760px) { .wejdz .przypis a { display: inline-flex; align-items: center; min-height: 44px; } }

diff --git a/standard.html b/standard.html
@@ -25,7 +25,7 @@
       <a href="index.html#lokalizacja">Lokalizacja</a>
       <a href="index.html#budowa">Budowa</a>
       <a href="standard.html" aria-current="page">Standard</a>
-      <a href="spacer.html">Spacer 360°</a>
+      <a href="index.html#spacer-360">Spacer 360°</a>
       <a href="index.html#kontakt">Kontakt</a>
       <div class="menu__dol">
         <a class="przycisk" href="tel:+48604995123">Zadzwoń: 604 995 123</a>
@@ -166,7 +166,7 @@
         <a href="index.html#typy">Typy domów</a>
         <a href="index.html#lokalizacja">Lokalizacja</a>
         <a href="index.html#budowa">Budowa</a>
-        <a href="spacer.html">Spacer 360°</a>
+        <a href="index.html#spacer-360">Spacer 360°</a>
         <a href="dziennik-budowy.html">Dziennik budowy</a>
         <a href="standard.html">Standard</a>
         <a href="index.html#pytania">Pytania</a>

diff --git a/typ-a.html b/typ-a.html
@@ -25,7 +25,7 @@
       <a href="index.html#lokalizacja">Lokalizacja</a>
       <a href="index.html#budowa">Budowa</a>
       <a href="standard.html">Standard</a>
-      <a href="spacer.html">Spacer 360°</a>
+      <a href="index.html#spacer-360">Spacer 360°</a>
       <a href="index.html#kontakt">Kontakt</a>
       <div class="menu__dol">
         <a class="przycisk" href="tel:+48604995123">Zadzwoń: 604 995 123</a>
@@ -135,7 +135,7 @@
         <a href="index.html#typy">Typy domów</a>
         <a href="index.html#lokalizacja">Lokalizacja</a>
         <a href="index.html#budowa">Budowa</a>
-        <a href="spacer.html">Spacer 360°</a>
+        <a href="index.html#spacer-360">Spacer 360°</a>
         <a href="dziennik-budowy.html">Dziennik budowy</a>
         <a href="standard.html">Standard</a>
         <a href="index.html#pytania">Pytania</a>

diff --git a/typ-a1.html b/typ-a1.html
@@ -25,7 +25,7 @@
       <a href="index.html#lokalizacja">Lokalizacja</a>
       <a href="index.html#budowa">Budowa</a>
       <a href="standard.html">Standard</a>
-      <a href="spacer.html">Spacer 360°</a>
+      <a href="index.html#spacer-360">Spacer 360°</a>
       <a href="index.html#kontakt">Kontakt</a>
       <div class="menu__dol">
         <a class="przycisk" href="tel:+48604995123">Zadzwoń: 604 995 123</a>
@@ -135,7 +135,7 @@
         <a href="index.html#typy">Typy domów</a>
         <a href="index.html#lokalizacja">Lokalizacja</a>
         <a href="index.html#budowa">Budowa</a>
-        <a href="spacer.html">Spacer 360°</a>
+        <a href="index.html#spacer-360">Spacer 360°</a>
         <a href="dziennik-budowy.html">Dziennik budowy</a>
         <a href="standard.html">Standard</a>
         <a href="index.html#pytania">Pytania</a>

diff --git a/typ-b.html b/typ-b.html
@@ -25,7 +25,7 @@
       <a href="index.html#lokalizacja">Lokalizacja</a>
       <a href="index.html#budowa">Budowa</a>
       <a href="standard.html">Standard</a>
-      <a href="spacer.html">Spacer 360°</a>
+      <a href="index.html#spacer-360">Spacer 360°</a>
       <a href="index.html#kontakt">Kontakt</a>
       <div class="menu__dol">
         <a class="przycisk" href="tel:+48604995123">Zadzwoń: 604 995 123</a>
@@ -141,7 +141,7 @@
         <a href="index.html#typy">Typy domów</a>
         <a href="index.html#lokalizacja">Lokalizacja</a>
         <a href="index.html#budowa">Budowa</a>
-        <a href="spacer.html">Spacer 360°</a>
+        <a href="index.html#spacer-360">Spacer 360°</a>
         <a href="dziennik-budowy.html">Dziennik budowy</a>
         <a href="standard.html">Standard</a>
         <a href="index.html#pytania">Pytania</a>

diff --git a/typ-c.html b/typ-c.html
@@ -25,7 +25,7 @@
       <a href="index.html#lokalizacja">Lokalizacja</a>
       <a href="index.html#budowa">Budowa</a>
       <a href="standard.html">Standard</a>
-      <a href="spacer.html">Spacer 360°</a>
+      <a href="index.html#spacer-360">Spacer 360°</a>
       <a href="index.html#kontakt">Kontakt</a>
       <div class="menu__dol">
         <a class="przycisk" href="tel:+48604995123">Zadzwoń: 604 995 123</a>
@@ -135,7 +135,7 @@
         <a href="index.html#typy">Typy domów</a>
         <a href="index.html#lokalizacja">Lokalizacja</a>
         <a href="index.html#budowa">Budowa</a>
-        <a href="spacer.html">Spacer 360°</a>
+        <a href="index.html#spacer-360">Spacer 360°</a>
         <a href="dziennik-budowy.html">Dziennik budowy</a>
         <a href="standard.html">Standard</a>
         <a href="index.html#pytania">Pytania</a>

diff --git a/dziennik-budowy.html b/dziennik-budowy.html
@@ -25,7 +25,7 @@
       <a href="index.html#lokalizacja">Lokalizacja</a>
       <a href="index.html#budowa">Budowa</a>
       <a href="standard.html">Standard</a>
-      <a href="spacer.html">Spacer 360°</a>
+      <a href="index.html#spacer-360">Spacer 360°</a>
       <a href="index.html#kontakt">Kontakt</a>
       <div class="menu__dol">
         <a class="przycisk" href="tel:+48604995123">Zadzwoń: 604 995 123</a>
@@ -93,7 +93,7 @@
         <a href="index.html#typy">Typy domów</a>
         <a href="index.html#lokalizacja">Lokalizacja</a>
         <a href="index.html#budowa">Budowa</a>
-        <a href="spacer.html">Spacer 360°</a>
+        <a href="index.html#spacer-360">Spacer 360°</a>
         <a href="dziennik-budowy.html">Dziennik budowy</a>
         <a href="standard.html">Standard</a>
         <a href="index.html#pytania">Pytania</a>
